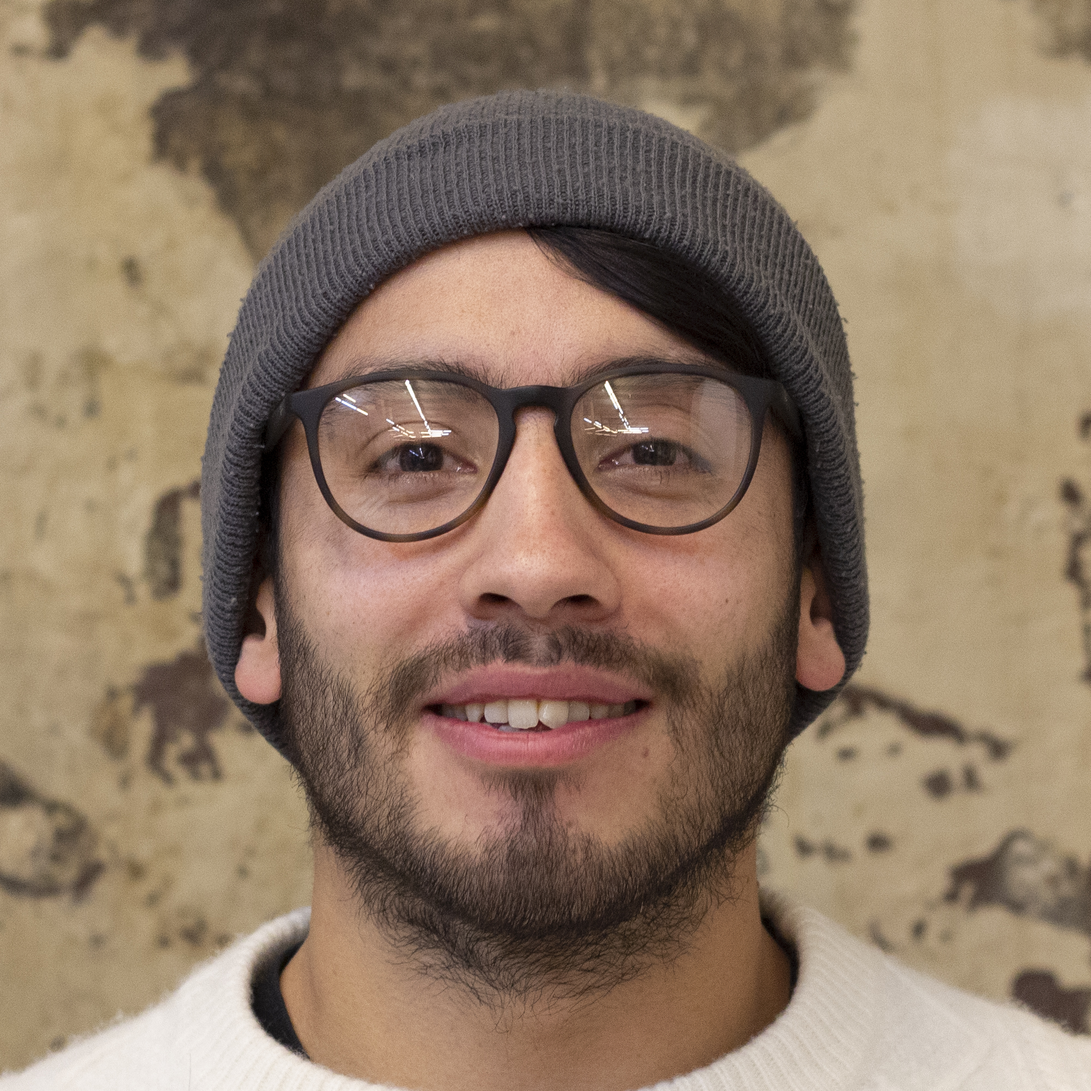
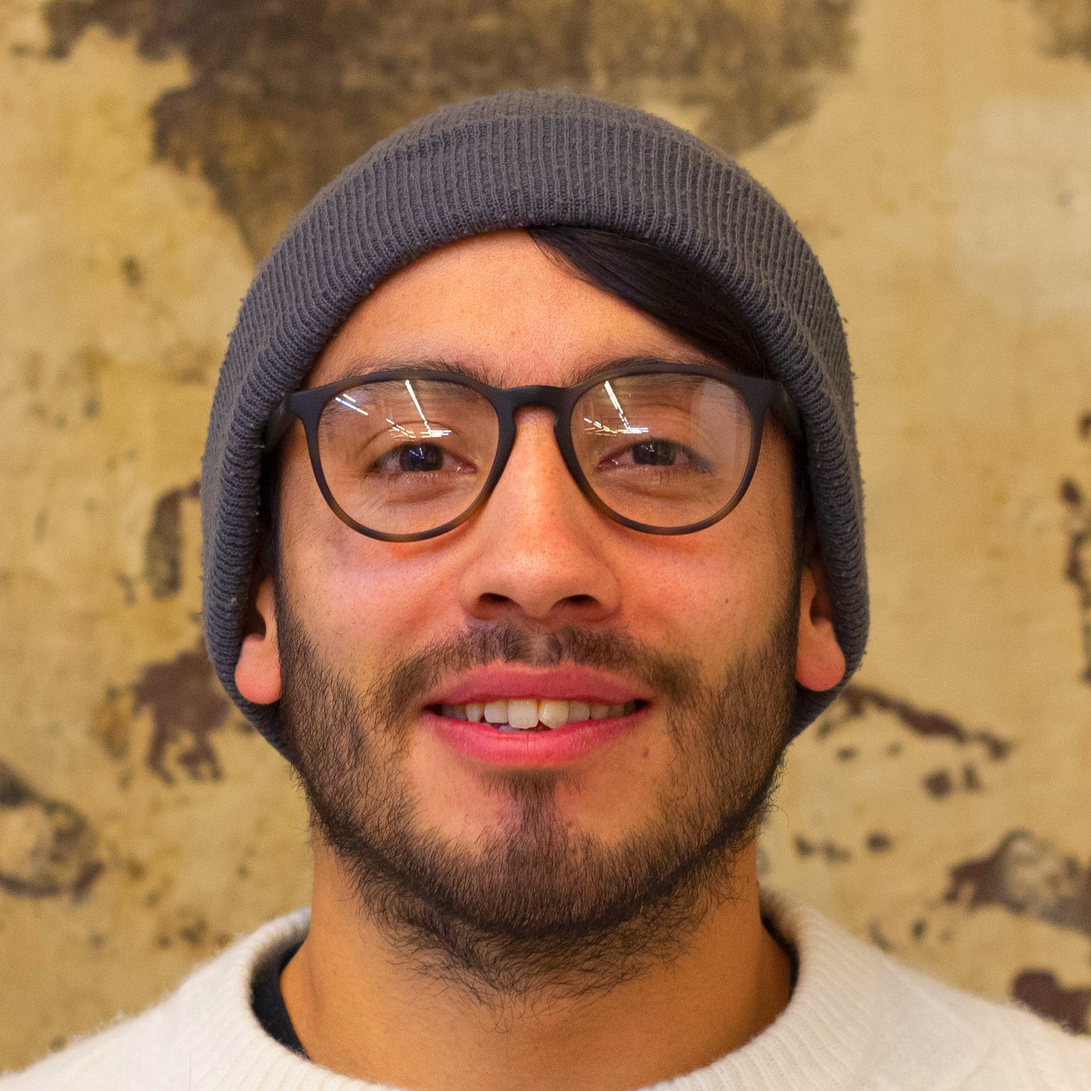
test color

diff --git a/templates/index.html b/templates/index.html
@@ -36,7 +36,7 @@
             <li class="layer" data-depth="0.05" style="width: 56%; margin: auto; right: 0%">
                 <div class="about">
                   <div class="avatar-icon">
-                    <img src="https://res.cloudinary.com/dw7nokc0j/image/upload/v1553794235/augustin_cousin2.jpg" alt="Augustin Cousin  augustincousin.pro@gmail.com">
+                    <img src="https://res.cloudinary.com/dw7nokc0j/image/upload/v1553854652/augustin_cousin3.jpg" alt="Augustin Cousin  augustincousin.pro@gmail.com">
                   </div>
                   <div class="my-description">
                     <h3>Développeur Full Stack Freelance</h3><br>
@@ -81,7 +81,7 @@
         <div class="footer">
           <div class="footer-left">
             <div class="link A"><i class="fa fa-home" aria-hidden="true"></i></div>
-            <div class="link B"><i class="fa fa-user-circle" aria-hidden="true"></i></div>
+            <div class="link B"><i class="fa fa-address-book" aria-hidden="true"></i></div>
           </div>
           <div class="footer-right">
             <div class="link C"><i class="fa fa-server" aria-hidden="true"></i></div>

diff --git a/assets/stylesheets/application.scss b/assets/stylesheets/application.scss
@@ -1042,7 +1042,7 @@ div.selected {
     font-size: 30px;
     display: flex;
     color: #171616;
-    opacity: 0.5;
+    opacity: 0.4;
   }
 
   .footer-left>div>i, .footer-right>div>i {
